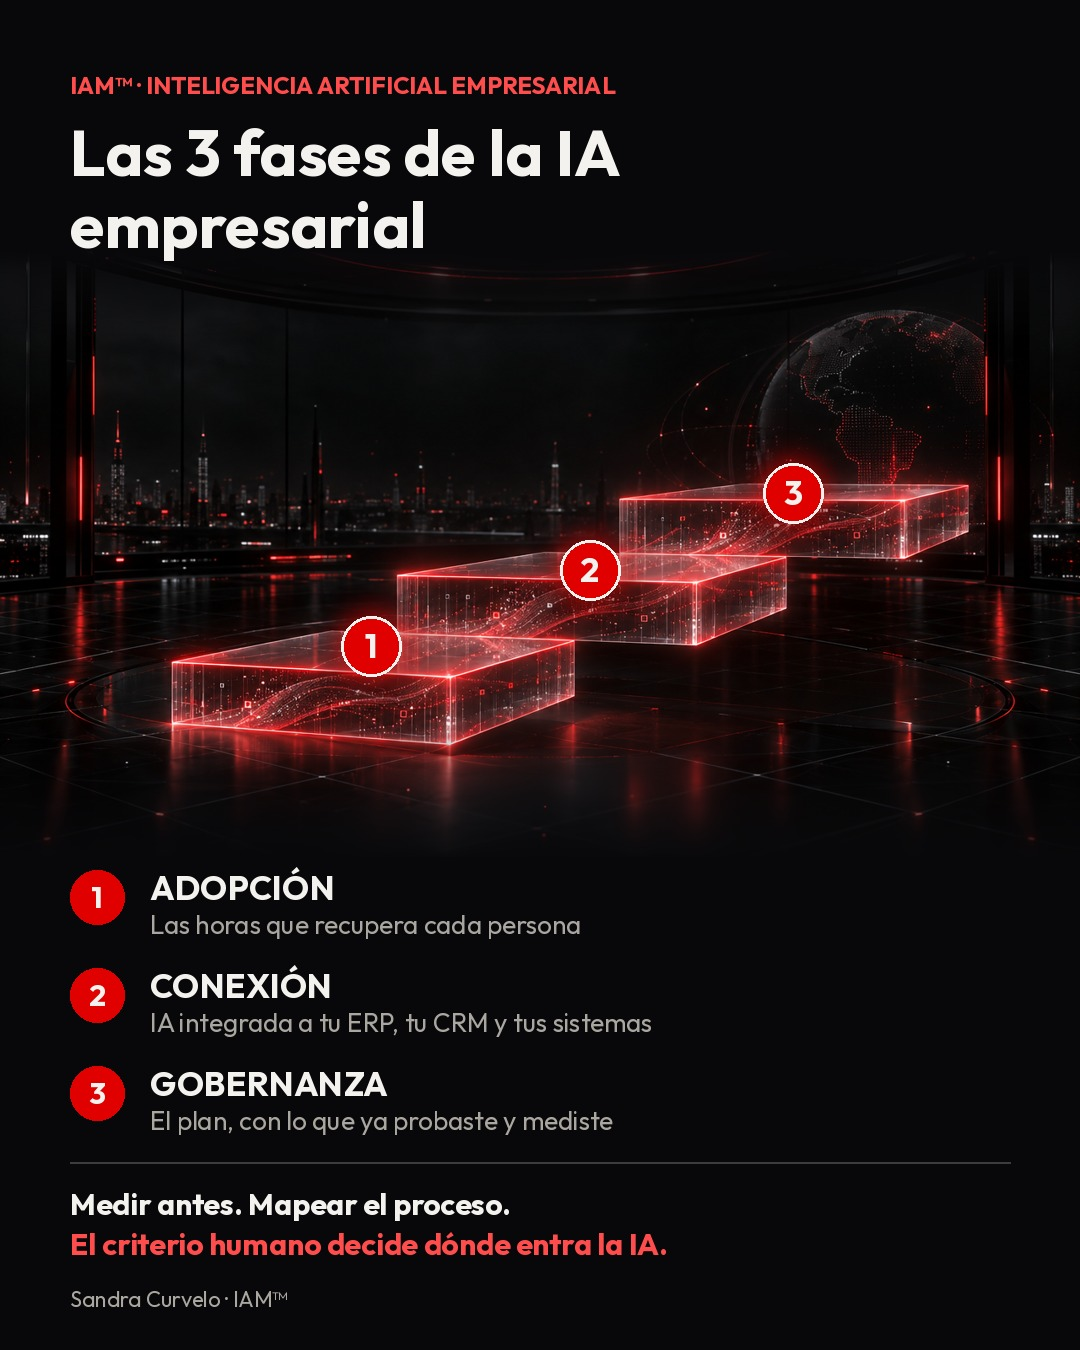
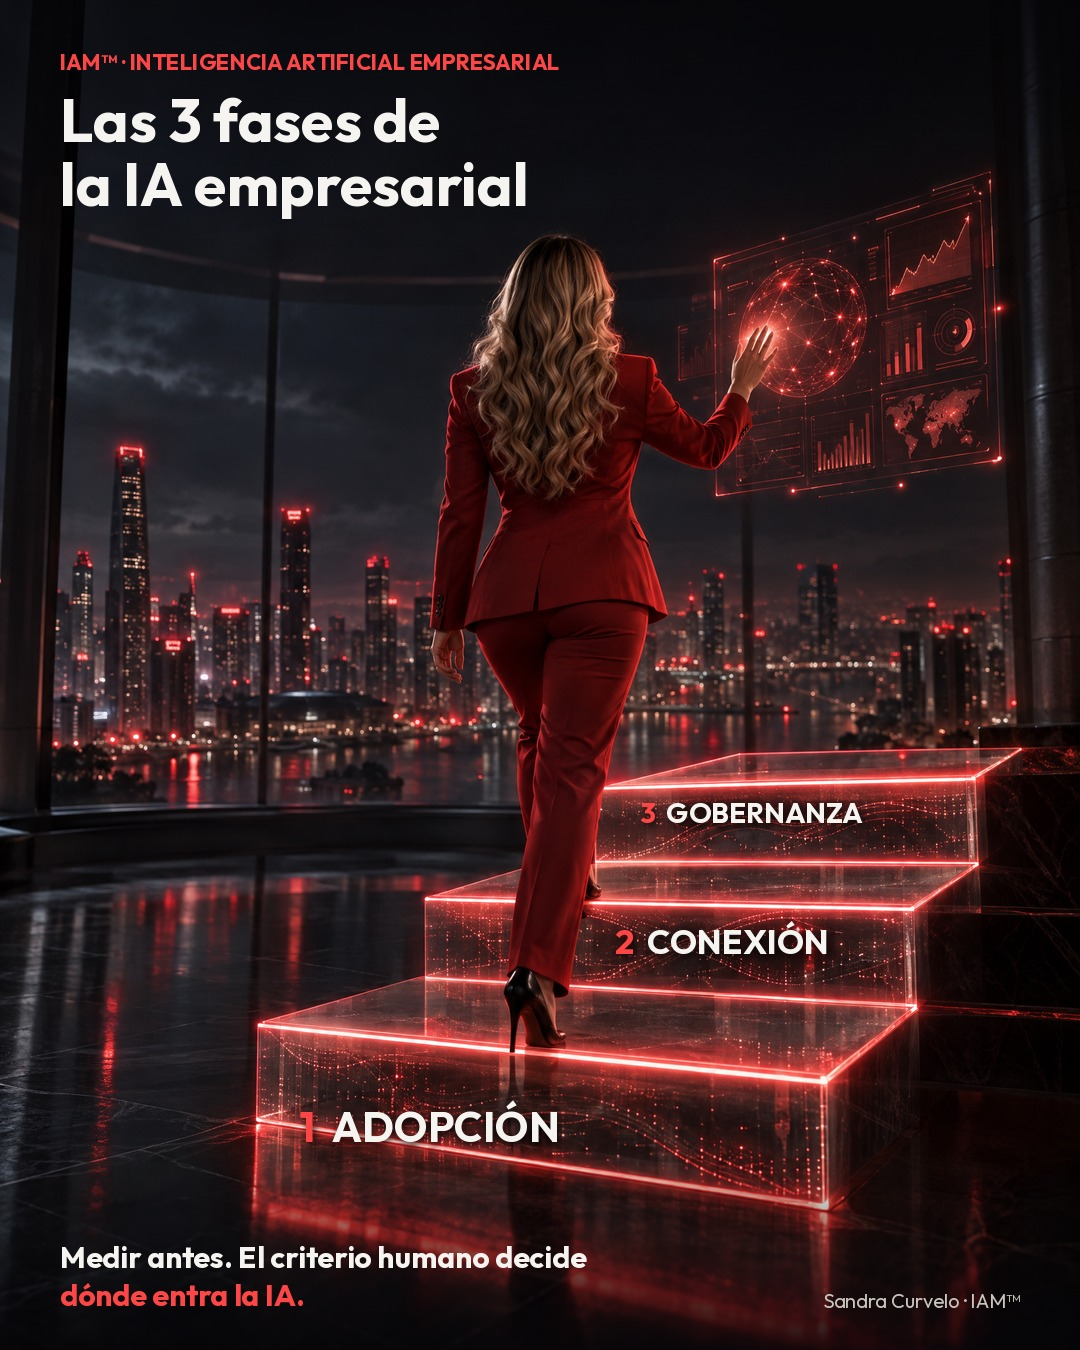
Imagen lun-23-am v2: Sandra de espalda subiendo la escalera (ElevenLabs)
Claude-Session: https://claude.ai/code/session_01Tmne2aLNP1UGqMwJXFqoP3

diff --git a/contenido-linkedin/imagenes/escalera-lun-23.py b/contenido-linkedin/imagenes/escalera-lun-23.py
@@ -1,45 +1,30 @@
 import sys
 from PIL import Image, ImageDraw, ImageFont, ImageFilter
-D=sys.argv[1]
-F="/mnt/skills/examples/canvas-design/canvas-fonts/"
-B=lambda s: ImageFont.truetype(F+"Outfit-Bold.ttf",s)
-R=lambda s: ImageFont.truetype(F+"Outfit-Regular.ttf",s)
+D=sys.argv[1]; F="/mnt/skills/examples/canvas-design/canvas-fonts/"
+B=lambda s: ImageFont.truetype(F+"Outfit-Bold.ttf",s); R=lambda s: ImageFont.truetype(F+"Outfit-Regular.ttf",s)
 W,H=1080,1350
-c=Image.new("RGB",(W,H),(8,8,10))
-src=Image.open(D+"/v1.png").convert("RGB")
-k=W/1280
-crop=src.resize((W,int(720*k)))
-top=250; c.paste(crop,(0,top))
-# gradients top and bottom
-g=Image.new("L",(W,H),0); gd=ImageDraw.Draw(g)
+c=Image.open(D+"/s1.png").convert("RGB").resize((W,H),Image.LANCZOS)
+ov=Image.new("RGBA",(W,H),(0,0,0,0)); od=ImageDraw.Draw(ov)
 for y in range(H):
     a=0
-    if y<top+90: a=255 if y<top else int(255*(1-(y-top)/90))
-    if y>720: a=max(a,min(255,int(255*(y-720)/140)))
-    gd.line([(0,y),(W,y)],fill=a)
-c=Image.composite(Image.new("RGB",(W,H),(8,8,10)),c,g)
+    if y<260: a=int(200*(1-y/260))
+    if y>1150: a=max(a,int(225*(y-1150)/200))
+    od.line([(0,y),(W,y)],fill=(5,5,8,a))
+c=Image.alpha_composite(c.convert("RGBA"),ov)
 d=ImageDraw.Draw(c)
-RED=(224,0,0); WH=(244,242,238); MU=(170,166,160)
-d.text((70,70),"IAM™ · INTELIGENCIA ARTIFICIAL EMPRESARIAL",font=B(24),fill=(255,77,77))
-d.text((70,112),"Las 3 fases de la IA",font=B(64),fill=WH)
-d.text((70,184),"empresarial",font=B(64),fill=WH)
-# badges on steps (crop coords -> canvas)
-def badge(x,y,n):
-    x=int(x*k); y=int(y*k)+top
-    glow=Image.new("RGBA",(W,H),(0,0,0,0)); gdw=ImageDraw.Draw(glow)
-    gdw.ellipse((x-46,y-46,x+46,y+46),fill=(224,0,0,140)); glow=glow.filter(ImageFilter.GaussianBlur(14))
-    c.paste(glow,(0,0),glow)
-    d.ellipse((x-30,y-30,x+30,y+30),fill=RED,outline=WH,width=3)
-    t=str(n); w=d.textlength(t,font=B(34)); d.text((x-w/2,y-22),t,font=B(34),fill=WH)
-badge(440,470,1); badge(700,380,2); badge(940,288,3)
-y0=870
-rows=[("1","ADOPCIÓN","Las horas que recupera cada persona"),("2","CONEXIÓN","IA integrada a tu ERP, tu CRM y tus sistemas"),("3","GOBERNANZA","El plan, con lo que ya probaste y mediste")]
-for i,(n,t,s) in enumerate(rows):
-    y=y0+i*98
-    d.ellipse((70,y,124,y+54),fill=RED); w=d.textlength(n,font=B(30)); d.text((97-w/2,y+8),n,font=B(30),fill=WH)
-    d.text((150,y-4),t,font=B(34),fill=WH); d.text((150,y+38),s,font=R(26),fill=MU)
-d.line([(70,1162),(W-70,1162)],fill=(60,60,64),width=2)
-d.text((70,1185),"Medir antes. Mapear el proceso.",font=B(30),fill=WH)
-d.text((70,1225),"El criterio humano decide dónde entra la IA.",font=B(30),fill=(255,77,77))
-d.text((70,1285),"Sandra Curvelo · IAM™",font=R(22),fill=MU)
-c.save(D+"/lun-23-am.jpg",quality=92)
+WH=(246,244,240); RED=(255,70,70); MU=(200,196,190)
+d.text((60,48),"IAM™ · INTELIGENCIA ARTIFICIAL EMPRESARIAL",font=B(22),fill=RED)
+d.text((60,82),"Las 3 fases de",font=B(60),fill=WH)
+d.text((60,146),"la IA empresarial",font=B(60),fill=WH)
+def label(x,y,n,t,s):
+    sh=Image.new("RGBA",(W,H),(0,0,0,0)); sd=ImageDraw.Draw(sh)
+    sd.text((x+2,y+3),f"{n}  {t}",font=B(s),fill=(0,0,0,230)); sh=sh.filter(ImageFilter.GaussianBlur(4))
+    c.alpha_composite(sh)
+    d.text((x,y),n,font=B(s),fill=RED); w=d.textlength(n+"  ",font=B(s)); d.text((x+w,y),t,font=B(s),fill=WH)
+label(300,1100,"1","ADOPCIÓN",42)
+label(615,920,"2","CONEXIÓN",34)
+label(640,795,"3","GOBERNANZA",28)
+d.text((60,1238),"Medir antes. El criterio humano decide",font=B(30),fill=WH)
+d.text((60,1276),"dónde entra la IA.",font=B(30),fill=RED)
+d.text((W-60-d.textlength("Sandra Curvelo · IAM™",font=R(20)),1288),"Sandra Curvelo · IAM™",font=R(20),fill=MU)
+c.convert("RGB").save(D+"/lun-23-am-v2.jpg",quality=92)
